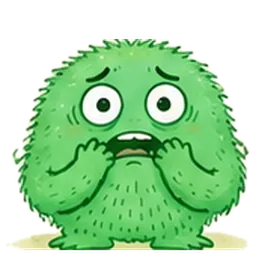
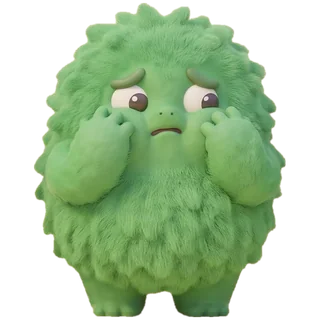
v11.4：擔心怪獸換成 3D 新圖
Claude-Session: https://claude.ai/code/session_01CEkvYQrBkbWEs5gG6BXqD9

diff --git a/index.html b/index.html
@@ -771,7 +771,7 @@ const moodOf=n=>[1,1,2,3,4,4][n]||3;
 const BADGE={angry:['🚦','紅綠燈徽章','生氣時會先停一下'],sad:['☂','小雨傘','難過時會照顧自己'],defiant:['🏅','進步獎牌','跟昨天的自己比'],
   stuck:['🚩','一步一步旗','把難事切成小步驟'],scared:['🛡','勇氣盾牌','先試一小步'],wronged:['💬','說話泡泡','說出自己的想法']};
 /* 已換成 3D 新圖、有 4 階段成長圖的怪獸（徽章已畫在圖裡，不再疊 emoji） */
-const GROWN=new Set(['angry','sad','defiant','stuck']);
+const GROWN=new Set(['angry','sad','defiant','stuck','scared']);
 /* 比較寬的圖（手拿旗子、張開手臂）：寬高比，讓身體高度跟其他階段一致 */
 const ASPECT={stuck2:1.03,stuck4:1.11,stuck0:1.18,stuckg2:1.15,stuckg4:1.11};
 const IMG=(k,st)=>`img/${k}${st}.webp`;

diff --git a/art/PROMPTS.md b/art/PROMPTS.md
@@ -47,7 +47,7 @@ Same [外型]. 4 growth stages in a row, all calm and kind, never [情緒]: baby
 | 難過 sad | blue water-drop monster | pouting → teary → crying → crying a lot with a puddle | hugging a small heart | small umbrella badge → small umbrella | ✅ 完成 |
 | 不服氣 defiant | orange spiky sun-like monster | grumpy side-eye → arms crossed → stomping, puffed cheeks → arms crossed tightly with steam | arms relaxed, accepting smile, thumbs up | small gold medal badge → holding up a gold medal | ✅ 完成 |
 | 做不到 stuck | purple tangled-yarn monster | small frown → dizzy swirl eyes → holding head → slumped, wants to give up | yarn neat, arms raised "I can do it" | small flag badge → flag with footprint steps | ✅ 完成 |
-| 擔心 scared | green fuzzy monster | a little nervous → worried biting nails → shaking, covering face → very scared hiding | relaxed shoulders, soft smile, one hand on chest breathing | small shield badge → small shield | 待做 |
+| 擔心 scared | green fuzzy monster | a little nervous → worried biting nails → shaking, covering face → very scared hiding | relaxed shoulders, soft smile, one hand on chest breathing | small shield badge → small shield | ✅ 完成 |
 | 委屈 wronged | pink round fluffy monster | lips pressed, teary eyes → holding back tears → tears falling → hugging knees crying | soft smile, holding a heart speech bubble | speech-bubble badge → heart speech bubble | 待做 |
 
 ## 之後要做
